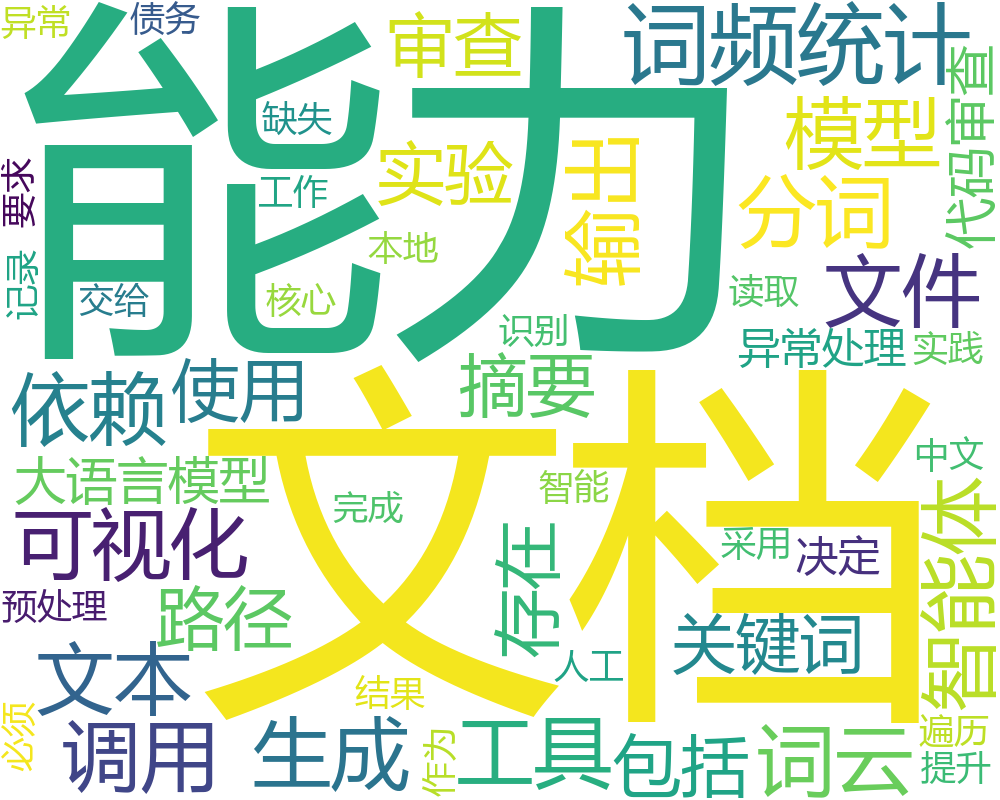
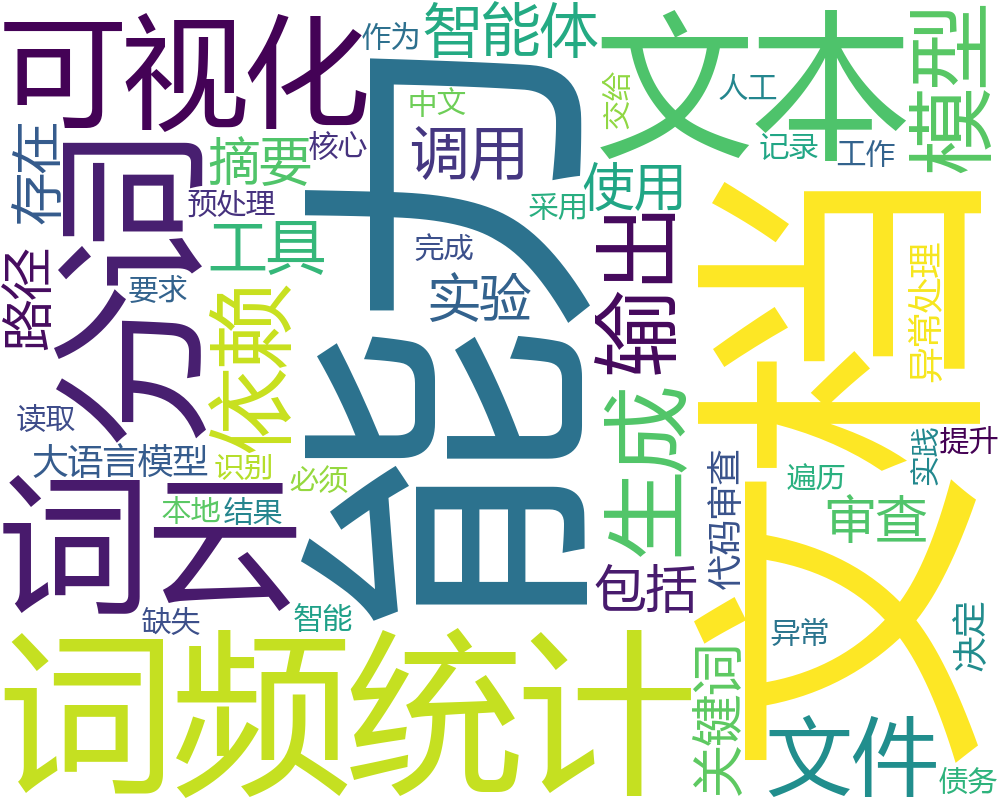
docs: 补实验报告与运行输出记录 (2026-11-18)

diff --git a/实验报告.md b/实验报告.md
@@ -1,0 +1,156 @@
+# 实验报告：本地文档智能审查与摘要（Vibe Coding 实验）
+
+| 项目 | 内容 |
+| --- | --- |
+| 课程 | Python 程序设计 |
+| 实验名称 | 实验四：本地文档智能审查与摘要（Vibe Coding） |
+| 姓名 / 学号 | ________ / ________ |
+| 完成日期 | 2026-11-18 |
+| 仓库地址 | https://github.com/qls-eng/local-doc-review-lab |
+| 运行环境 | Windows 11 + Python 3.13.18 + jieba / wordcloud / matplotlib |
+
+## 一、实验目的
+
+1. 实现一个能**批量处理本地文档**的小型工具：遍历文件夹 → 读取 txt/md → 中文分词 → 词频统计 → 可视化输出。
+2. 用 Vibe Coding 方式推进：每一轮只加一小步，AI 产出后立刻运行验证，报错就修，修复过程写进 `vibe_coding_log.md`。
+3. 处理中文文本处理的两个典型障碍：专业词被切碎（需自定义词典）、中文显示为方框（需字体配置）。
+4. 保证程序在异常输入下不崩溃：目录不存在、单文件读取失败、无有效词汇、字体缺失。
+
+## 二、功能与输入输出
+
+| 项 | 说明 |
+| --- | --- |
+| 输入 | 程序所在目录下 `docs/` 中的 `.txt` / `.md` 文件（本仓库放 3 份样本） |
+| 资源文件 | `stopwords.txt`（停用词 46 个）、`user_dict.txt`（自定义专业词典） |
+| 处理 | jieba 分词 → 过滤停用词、单字、非字母数字 → Counter 统计 Top50 |
+| 输出 | `report.csv`（排名/关键词/出现次数，utf-8-sig）+ `document_wordcloud.png`（白底 1000×800） |
+
+## 三、技术选型
+
+| 环节 | 选择 | 理由 |
+| --- | --- | --- |
+| 分词 | jieba | 中文分词最常用，支持 `load_userdict` 注入专业词 |
+| 词云 | wordcloud | 直接吃 `{词: 频次}` 字典，配 `font_path` 可解决中文显示 |
+| 绘图 / 展示 | matplotlib | 用于把词云图显示在窗口并加标题 |
+| 统计 | `collections.Counter` | `most_common(n)` 一行拿 TopN |
+
+## 四、实现要点
+
+### 4.1 四步流水线
+
+```python
+def analyze(folder_path, font_path, stopwords_file=None, user_dict=None, top_n=50):
+    load_user_dict(user_dict)      # 1. 加载自定义词典
+    stopwords = load_stopwords(stopwords_file)   # 2. 加载停用词
+    all_words = read_folder(folder_path, stopwords)  # 3. 遍历 + 分词 + 过滤
+    ...
+    top_words = Counter(all_words).most_common(top_n)  # 4. 统计 TopN
+```
+
+### 4.2 过滤规则
+
+```python
+filtered = [w.strip() for w in words
+            if len(w.strip()) > 1 and w not in stopwords and w.strip().isalnum()]
+```
+
+三条同时满足才保留：长度 > 1（滤掉单字）、不在停用词表、是字母/数字（滤掉标点与空白）。
+
+### 4.3 两个字体配置（本实验最关键的坑）
+
+- **词云内部文字**：`WordCloud(font_path=r"C:\Windows\Fonts\msyh.ttc")`；
+- **matplotlib 标题 / 坐标轴**：`plt.rcParams['font.sans-serif'] = ['Microsoft YaHei', 'SimHei']`，并关闭负号乱码 `axes.unicode_minus = False`。
+
+两处是各自独立的配置，只设一处仍会有一半中文是方框。实验中先出现"词云中文全是方框"，补上 `font_path` 后又发现"窗口标题是方框"，才定位到这是两套字体体系。
+
+### 4.4 路径与编码
+
+- 所有输入输出路径基于 `os.path.dirname(os.path.abspath(__file__))` 拼接，换机器不失效；
+- 读文件强制 `encoding='utf-8'`；
+- 写 CSV 用 `utf-8-sig`，Excel 双击打开中文不乱码。
+
+### 4.5 异常兜底
+
+| 场景 | 行为 |
+| --- | --- |
+| 停用词表缺失 / 读取失败 | 打印 `[WARN]`，改用内置 15 个基础停用词 |
+| 自定义词典加载失败 | 打印 `[WARN]`，继续用默认词典 |
+| 目标文件夹不存在 | 打印 `[ERROR] 文件夹不存在：...`，返回空列表 |
+| 单个文件读取失败 | 打印 `[ERROR]` 并跳过该文件，不影响其他文件 |
+| 过滤后无有效词 | 打印 `[ERROR] 未提取到有效词汇`，不生成空图 |
+| 找不到中文字体 | 打印 `[ERROR]` 并 `sys.exit(1)`，避免输出一堆方框 |
+
+## 五、运行结果
+
+在 PyCharm 中右键 `analyze_docs.py` 运行（解释器绑定项目 `.venv`），窗口截图：
+
+![PyCharm 运行与词云展示](pycharm运行截图.png)
+
+本次真实运行输出（节选）：
+
+```text
+[OK] 使用字体：C:\Windows\Fonts\msyh.ttc
+[OK] 已加载自定义词典：...\user_dict.txt
+[OK] 已加载停用词 46 个：...\stopwords.txt
+[OK] 共读取 3 个文件，有效词条 345 个
+
+===== Top 50 高频词 =====
+ 1. 文档         7
+ 2. 能力         7
+ 3. 词频统计       5
+ 4. 文本         4
+ 5. 分词         4
+ ...
+[OK] 词云已保存：...\document_wordcloud.png
+[OK] 汇总报告已保存：...\report.csv
+```
+
+产物核对：
+
+| 产物 | 核对结果 |
+| --- | --- |
+| `report.csv` | 51 行（1 行表头 + Top50），列序 `排名,关键词,出现次数` |
+| `document_wordcloud.png` | 1000×800 白底词云，中文正常显示 |
+| 词条数 | 3 个文档共提取 345 个有效词条 |
+
+生成的词云：
+
+![文档高频词云](document_wordcloud.png)
+
+从词云可见，语料主题集中在"文档、能力、词频统计、摘要、审查、智能体、大语言模型"——正好是这三份样本（实验说明、智能体笔记、工程实践记录）的核心词，说明停用词过滤与自定义词典都起作用了（"词频统计""大语言模型""智能体"这类词没被切碎）。
+
+## 六、Vibe Coding 过程记录
+
+完整的多轮 Prompt 与报错修复见 `vibe_coding_log.md`，主要迭代节点：
+
+| 轮次 | 需求 | 遇到的问题 | 修复 |
+| --- | --- | --- | --- |
+| R1 | 读取文件夹并分词 | `ModuleNotFoundError` | 改用项目 `.venv\Scripts\python.exe -m pip install` |
+| R2 | 加词频统计 | 结果里全是"的、了、和" | 加停用词表过滤 |
+| R3 | 加词云 | 中文全是方框 | 显式 `font_path` 指向 `msyh.ttc` |
+| R4 | 展示词云窗口 | 窗口标题仍是方框 | `plt.rcParams['font.sans-serif']` 单独设置 |
+| R5 | 专业词被切碎 | "词频统计"被拆成"词频/统计" | `jieba.load_userdict` 注入自定义词典 |
+| R6 | 换电脑运行 | 路径全是绝对路径 | 改为基于 `__file__` 拼路径 |
+
+## 七、小结
+
+- 中文文本处理的门槛不在算法，而在两条"配置"：词典与字体。两者不配好，工具看起来能跑但结果是废的。
+- 分层设计（加载 / 读取 / 统计 / 可视化各一个函数）让每次迭代只改一个函数，Vibe Coding 的"小步验证"才有可能。
+- 异常兜底要"降级而不中断"：停用词读失败就用内置表，单文件读失败就跳过，这样批量任务不会因为一个坏文件全废。
+
+## 八、后续可扩展
+
+- 对接大模型 API，把关键词与词频交给模型生成审查意见与摘要；
+- 引入 `watchdog` 监控文件夹，新增文档自动分析；
+- 增加相似文档聚类，识别重复内容。
+
+## 九、交付清单
+
+| 交付物 | 位置 |
+| --- | --- |
+| 主程序 | `analyze_docs.py`（151 行） |
+| 资源 | `stopwords.txt`、`user_dict.txt` |
+| 样本语料 | `docs/实验说明.txt`、`docs/智能体笔记.txt`、`docs/工程实践记录.txt` |
+| 运行产物 | `report.csv`、`document_wordcloud.png` |
+| 过程记录 | `vibe_coding_log.md`、`run_output.txt` |
+| 运行截图 | `pycharm运行截图.png` |
